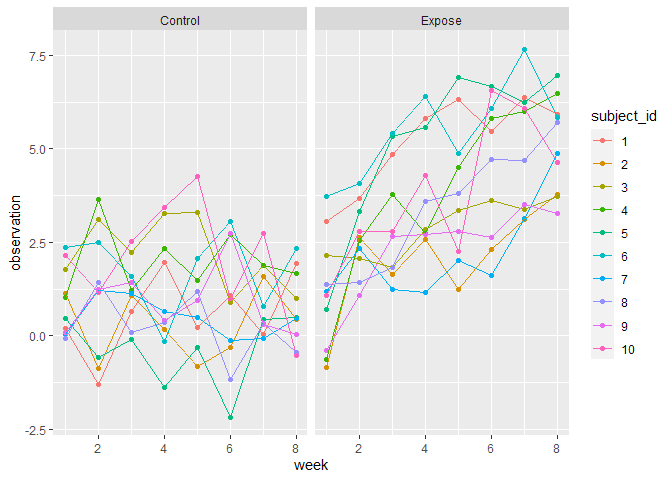
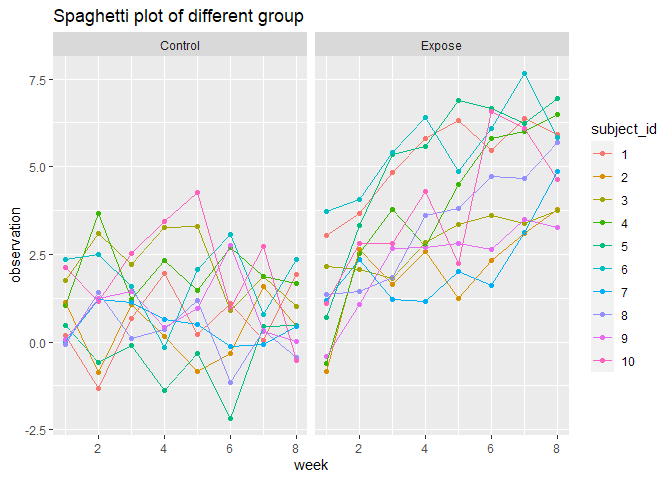
-Finalization and submission

diff --git a/p8105_hw5_wg2364.md b/p8105_hw5_wg2364.md
@@ -255,7 +255,8 @@ study_data_tidy %>%
   ggplot(aes(x = week, y = observation, color = subject_id)) +
   geom_point() +
   geom_line() +
-  facet_grid(~arm)
+  facet_grid(~arm) +
+  ggtitle("Spaghetti plot of different group")
 ```
 
 ![](p8105_hw5_wg2364_files/figure-gfm/unnamed-chunk-8-1.png)<!-- -->
@@ -267,4 +268,140 @@ group, there is an increasing trend of the observation over time.
 
 # Question 3:
 
-## Analysis on `$\mu$ =0`
+## The main function for the simulation:
+
+``` r
+set.seed(429)
+
+simulation_ <- function(mu, sd = 5, sample_size = 30, iteration = 5000){
+  df <- 
+    tibble(
+    sample_id = 1:iteration,
+    sample_data = rerun(iteration, rnorm(n = sample_size, mean = mu, sd = sd)))
+  df <- 
+    df %>% 
+    mutate(ttest = map(.x = sample_data, ~t.test(.x, mu = 0))) %>% 
+    mutate(ttidy = map(.x = ttest, ~broom::tidy(.x))) %>% 
+    select(sample_id, ttidy) %>%
+    unnest(ttidy) %>% 
+    select(sample_id, estimate, p.value) %>% 
+    mutate(decision = case_when(
+      p.value < 0.05 ~ "Reject",
+      p.value >= 0.05 ~ "Fail to Reject"
+    ))
+  return(df)
+}
+```
+
+## Simulation on mean equal to 0:
+
+``` r
+simulation_(0)
+```
+
+    ## # A tibble: 5,000 x 4
+    ##    sample_id estimate p.value decision      
+    ##        <int>    <dbl>   <dbl> <chr>         
+    ##  1         1    0.180  0.817  Fail to Reject
+    ##  2         2    1.32   0.0852 Fail to Reject
+    ##  3         3   -0.753  0.379  Fail to Reject
+    ##  4         4   -0.906  0.395  Fail to Reject
+    ##  5         5    1.36   0.116  Fail to Reject
+    ##  6         6    0.365  0.730  Fail to Reject
+    ##  7         7    2.22   0.0115 Reject        
+    ##  8         8   -1.70   0.0242 Reject        
+    ##  9         9    0.473  0.619  Fail to Reject
+    ## 10        10    0.407  0.593  Fail to Reject
+    ## # ... with 4,990 more rows
+
+## Simulation on multiple means:
+
+``` r
+simulation_prop_ <- function(simulation_result){
+  output <- 
+    simulation_result %>% 
+    pull(decision)
+  return(sum(output== "Reject")/nrow(simulation_result))
+}
+
+Data <- tibble(
+  mu = 1:6
+)
+
+Data <-
+  Data %>% 
+  mutate(raw_data = map(.x = mu, ~simulation_(.x))) %>% 
+  mutate(proportion = map(.x = raw_data, ~simulation_prop_(.x))) %>% 
+  unnest(proportion)
+```
+
+## Plots:
+
+### Plot A: Make a plot showing the proportion of times the null was rejected (the power of the test) on the y axis and the true value of on the x axis.
+
+``` r
+Data %>% 
+  select(-raw_data) %>% 
+  ggplot(aes(x = mu, y = proportion)) +
+  geom_line() +
+  geom_point() +
+  ggtitle("Relationship between effect size and power")
+```
+
+![](p8105_hw5_wg2364_files/figure-gfm/unnamed-chunk-12-1.png)<!-- -->
+
+Comments:
+
+We can see that as the *mu* increasing, the proportion of rejection will
+increasing too. This is because, according to the central limit theorem
+(CLT), for a fixed sample size (n = 30 in this case), the distribution
+of the sample mean will follow a normal distribution with *mu* = mean we
+set and *sd* = *sigma/sqrt(n)*
+
+So, under a fixed significance level, proportion of times the null was
+rejected will increase as the peak of the (normal) distribution of
+sample mean will moving leftward. This will give a bigger intersection
+are with the rejection area of the null hypothesis.
+
+### Plot B: Make a plot showing the average estimate of *mu* on the y axis and the true value of *mu* on the x axis. Make a second plot (or overlay on the first) the average estimate of *mu* only in samples for which the null was rejected on the y axis and the true value of on the x axis
+
+``` r
+total_mean_estimation <-
+  Data %>% 
+  select(-proportion) %>% 
+  unnest(raw_data) %>% 
+  group_by(mu) %>% 
+  summarise(total_mean_est = mean(estimate)) %>% 
+  as.tibble()
+
+reject_mean_estimation <-
+  Data %>% 
+  select(-proportion) %>% 
+  unnest(raw_data) %>% 
+  group_by(mu, decision) %>% 
+  summarise(reject_mean_est = mean(estimate)) %>% 
+  filter(decision == "Reject") %>% 
+  select(-decision) %>% 
+  as_tibble()
+  
+
+left_join(total_mean_estimation, reject_mean_estimation) %>% 
+  pivot_longer(total_mean_est:reject_mean_est,
+               names_to = "group",
+               values_to = "estimation") %>% 
+  ggplot(aes(x = mu, y = estimation, group = group)) +
+  geom_point(aes(color = group)) +
+  geom_line(aes(color = group)) +
+  ggtitle("Simulation difference among two groups")
+```
+
+![](p8105_hw5_wg2364_files/figure-gfm/unnamed-chunk-13-1.png)<!-- -->
+
+Comments:
+
+In general, we can see that as the *mu* increase, the divergent of these
+two sets will be narrower. Also, we notice that the total mean is
+approximately equal to the true *mu*. Again, this is result from CLT and
+as the *mu* increase, the distribution of sample mean will follows a
+normal distribution with increasing *mu* and the proportion of rejection
+(H\_0: *mu* = 0) will get bigger.
